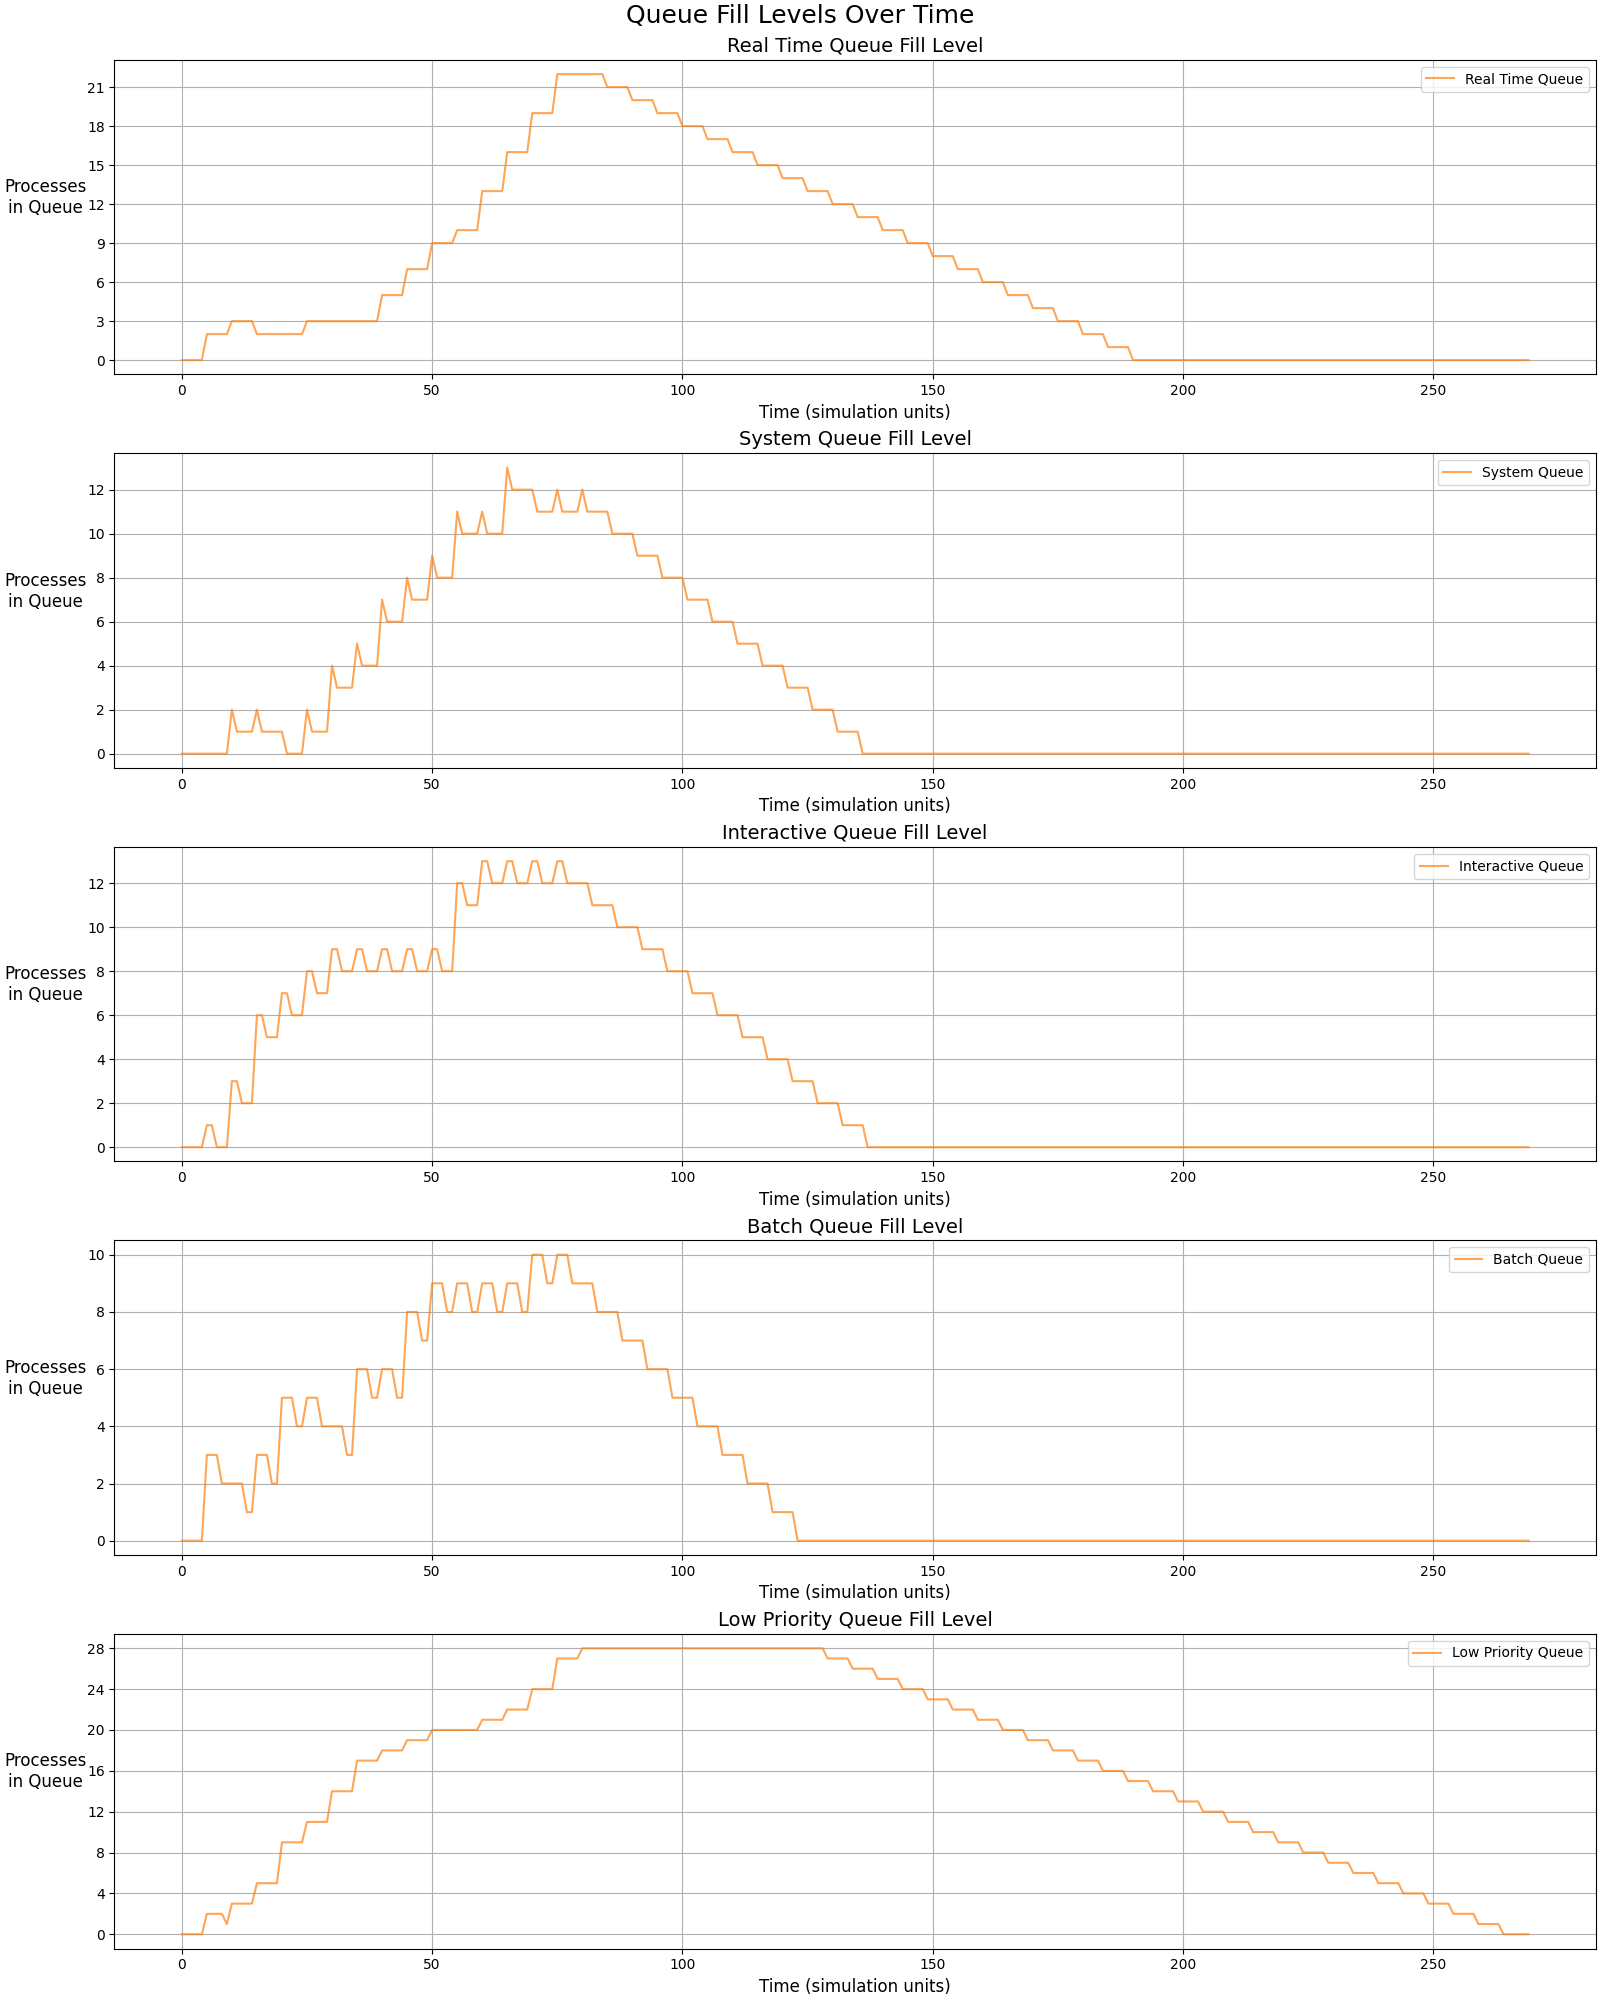
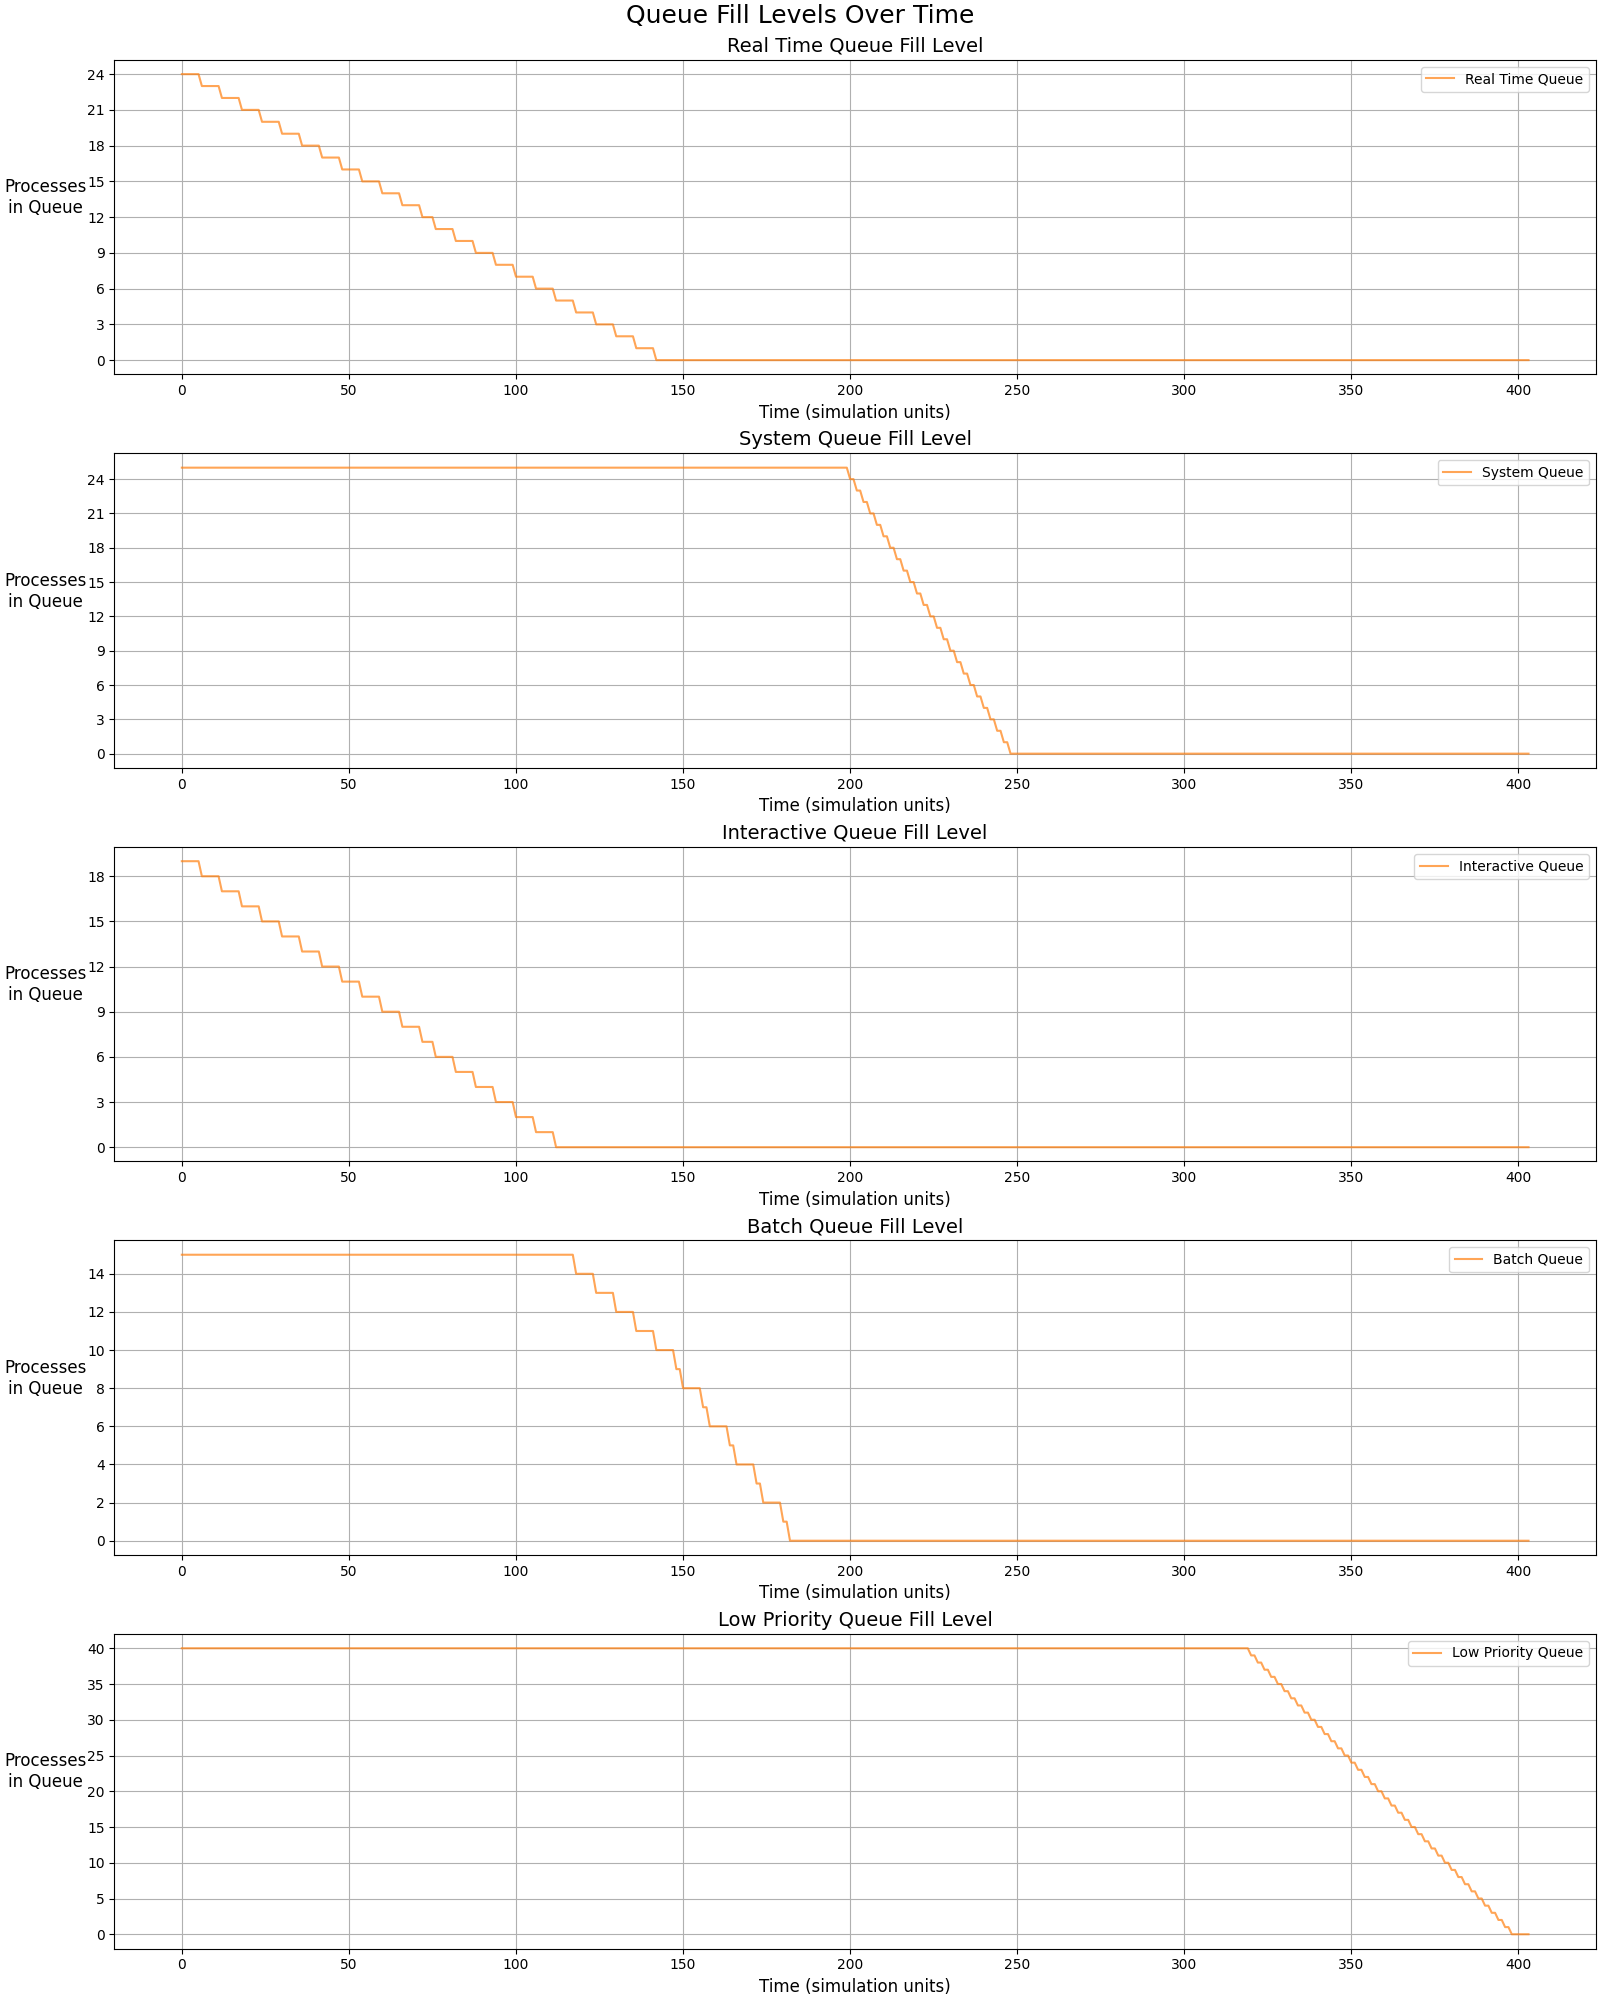
Add time quantization for processes and fixed the simulation speed

diff --git a/app.py b/app.py
@@ -5,7 +5,7 @@ import os
 from mlqs import MultiLevelQueueScheduler, add_processes
 from plots import plot_results, plot_average_wait_time
 
-async def run_simulation_dynamic(num_cpus, total_processes, processes_per_second, speedup_simulation, burst_time, interactive_burst_time_range, use_random_interactive_burst):
+async def run_simulation_dynamic(num_cpus, total_processes, processes_per_second, speedup_simulation, burst_time, interactive_burst_time_range, use_random_interactive_burst, time_quantum):
     """
     Run a dynamic simulation of the multi-level queue scheduler.
 
@@ -21,13 +21,13 @@ async def run_simulation_dynamic(num_cpus, total_processes, processes_per_second
     Returns:
         tuple: Contains cpu_usage_data, queue_fill_data, and average_wait_times.
     """
-    scheduler = MultiLevelQueueScheduler(num_cpus, total_processes, speedup_simulation, burst_time)
+    scheduler = MultiLevelQueueScheduler(num_cpus, total_processes, speedup_simulation, burst_time, time_quantum)
     asyncio.create_task(add_processes(scheduler, total_processes, processes_per_second, burst_time, interactive_burst_time_range, use_random_interactive_burst))
     cpu_usage_data, queue_fill_data, average_wait_times = await scheduler.run_scheduler()
     return cpu_usage_data, queue_fill_data, average_wait_times
 
 
-async def run_simulation_static(num_cpus, speedup_simulation, process_settings, interactive_burst_time_range=None, use_random_interactive_burst=False):
+async def run_simulation_static(num_cpus, speedup_simulation, process_settings, time_quantum, interactive_burst_time_range=None, use_random_interactive_burst=False):
     """
     Run a static simulation of the multi-level queue scheduler.
 
@@ -41,7 +41,7 @@ async def run_simulation_static(num_cpus, speedup_simulation, process_settings, 
     Returns:
         tuple: Contains cpu_usage_data, queue_fill_data, and average_wait_times.
     """
-    scheduler = MultiLevelQueueScheduler(num_cpus, sum(settings["count"] for settings in process_settings.values()), speedup_simulation)
+    scheduler = MultiLevelQueueScheduler(num_cpus, sum(settings["count"] for settings in process_settings.values()), speedup_simulation, time_quantum=time_quantum)
 
     for priority, settings in process_settings.items():
         for i in range(settings["count"]):
@@ -74,6 +74,7 @@ def main():
 
     num_cpus = st.number_input("Number of CPUs", min_value=1, max_value=4, value=2)
     speedup_simulation = st.number_input("Speedup Simulation Factor", min_value=1, max_value=100, value=20)
+    time_quantum = st.number_input("Time quantum", min_value=1, max_value=5, value=2)
 
     if mode == "Dynamic":
         total_processes = st.number_input("Total Processes", min_value=1, max_value=300, value=44)
@@ -106,11 +107,11 @@ def main():
         with st.spinner("Running simulation..."):
             if mode == "Dynamic":
                 cpu_usage_data, queue_fill_data, average_wait_times = asyncio.run(run_simulation_dynamic(
-                    num_cpus, total_processes, processes_per_second, speedup_simulation, burst_time, interactive_burst_time_range, use_random_interactive_burst
+                    num_cpus, total_processes, processes_per_second, speedup_simulation, burst_time, interactive_burst_time_range, use_random_interactive_burst, time_quantum
                 ))
             else:
                 cpu_usage_data, queue_fill_data, average_wait_times = asyncio.run(run_simulation_static(
-                    num_cpus, speedup_simulation, process_settings, interactive_burst_time_range, use_random_interactive_burst
+                    num_cpus, speedup_simulation, process_settings, time_quantum, interactive_burst_time_range, use_random_interactive_burst
                 ))
 
             if cpu_usage_data and queue_fill_data:

diff --git a/mlqs.py b/mlqs.py
@@ -107,7 +107,7 @@ class CPU:
 
 
 class MultiLevelQueueScheduler:
-    def __init__(self, num_cpus: int, total_processes: int, speedup_simulation: int = 1, time_quantum: int = 2, burst_time=3) -> None:
+    def __init__(self, num_cpus: int, total_processes: int, speedup_simulation: int = 1, burst_time=3, time_quantum: int = 2) -> None:
         """
         Initialize the multi-level queue scheduler with specified CPU count and settings.
 
@@ -191,8 +191,8 @@ class MultiLevelQueueScheduler:
                         else:
                             await queue.add_process(process)
 
-                for i, cpu in enumerate(self.cpus):
-                    self.cpu_usage_data[i].append(0 if cpu.is_free else 1)
+            for i, cpu in enumerate(self.cpus):
+                self.cpu_usage_data[i].append(0 if cpu.is_free else 1)
 
                 for priority, queue in self.queues.items():
                     self.queue_fill_data[priority].append(queue.queue.qsize())
@@ -201,7 +201,7 @@ class MultiLevelQueueScheduler:
                 print("All processes have been completed.")
                 break
 
-            await asyncio.sleep(1)
+            await asyncio.sleep(1/self.speedup_simulation)
 
         return self.cpu_usage_data, self.queue_fill_data, self.average_wait_times()
     
